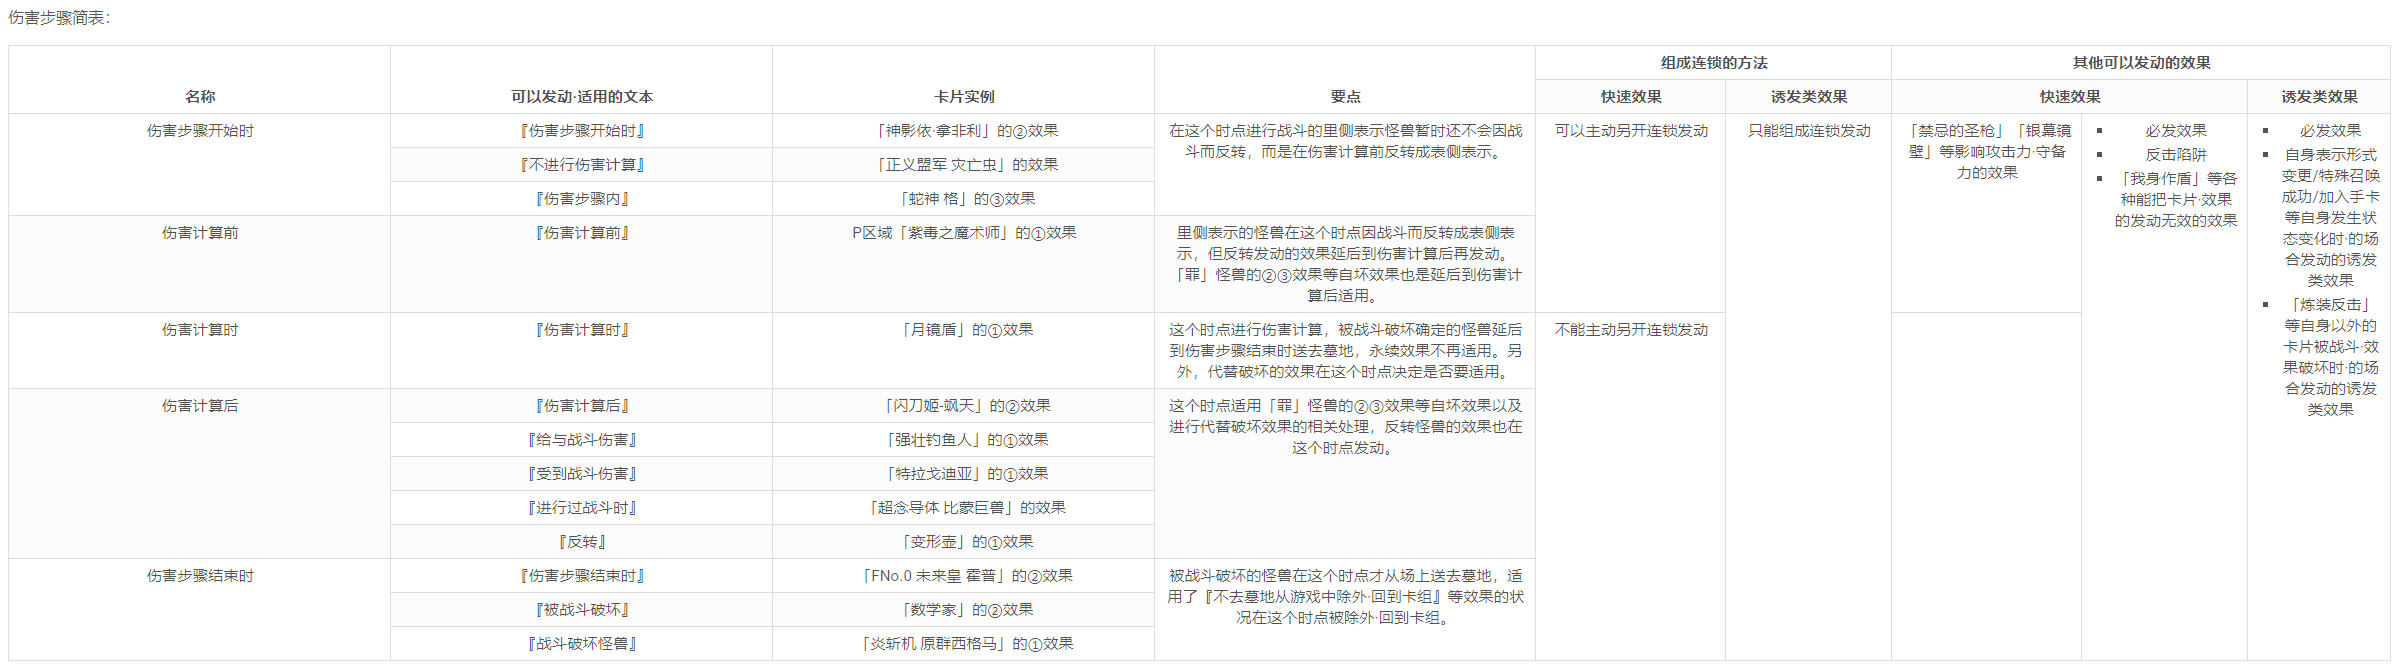
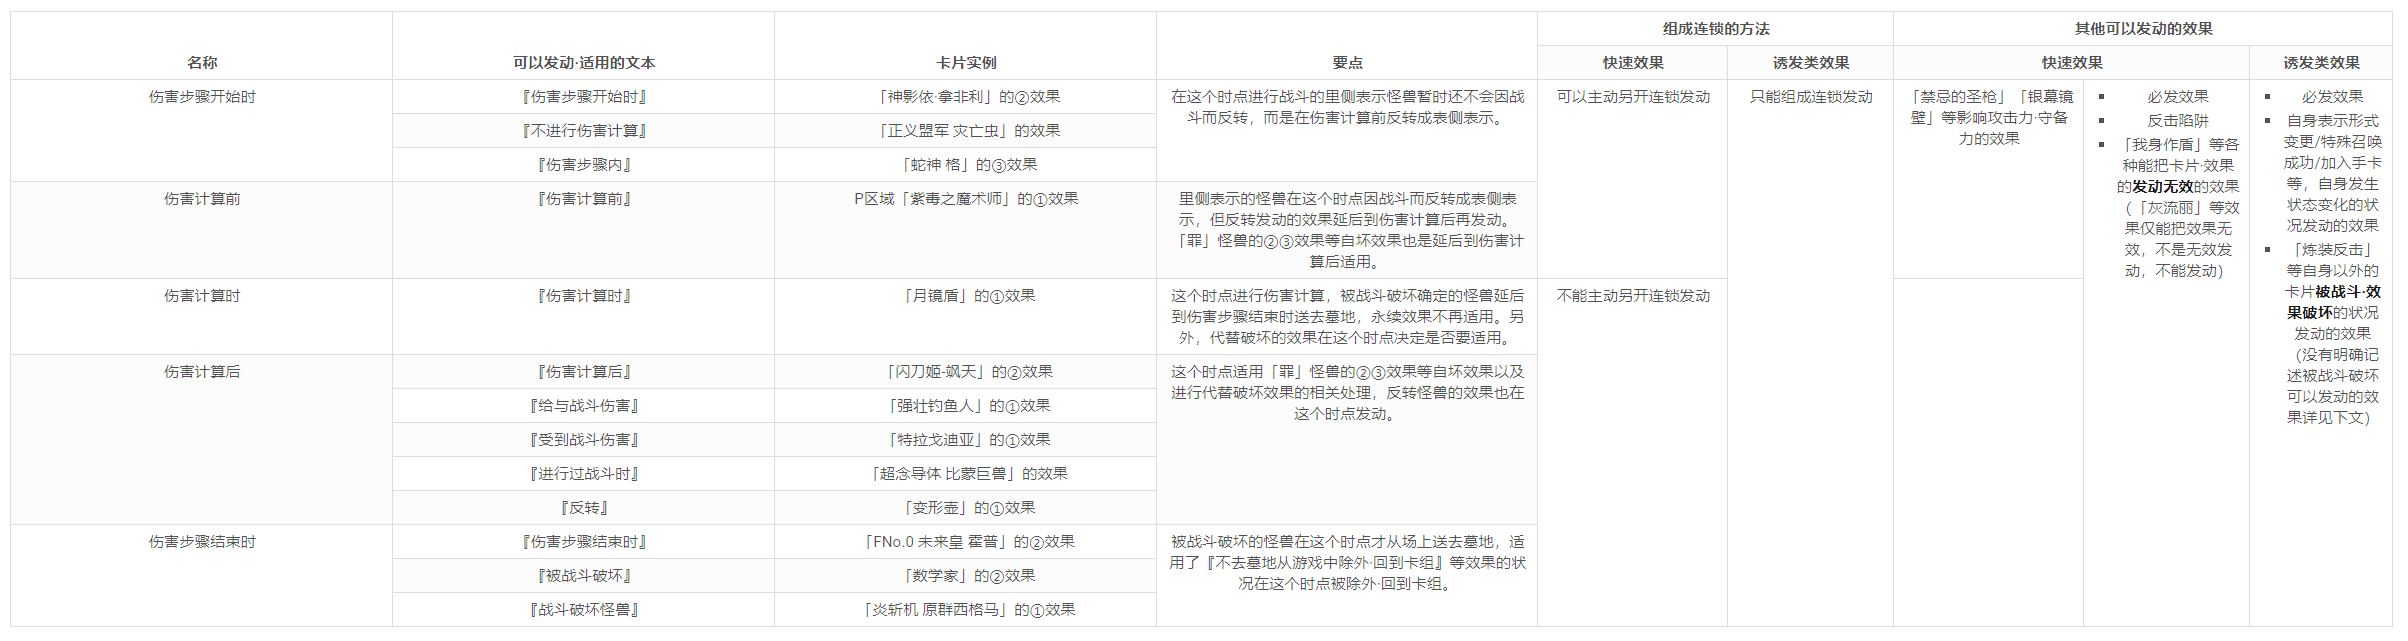
排版修正

diff --git a/docs/c03/战斗阶段流程.rst b/docs/c03/战斗阶段流程.rst
@@ -2,6 +2,9 @@
 战斗阶段流程
 ============
 
+.. role:: strike
+   :class: strike
+
 前言
 ========
 
@@ -264,7 +267,7 @@
 
 .. sidebar:: 其他翻译
 
-   目前效果文本使用的翻译是伤害步骤。不推荐“伤害判定步骤”“伤判”等词。
+   目前效果文本使用的翻译是伤害步骤。不推荐\ :strike:`伤害判定步骤`\ 、\ :strike:`伤判`\ 等词。
 
 这是进行伤害计算，导出战斗结果的步骤。这个步骤结束后，返回战斗步骤。不能直接进入结束步骤。
 
@@ -276,39 +279,41 @@
 
    .. attention:: 「真青眼究极龙」①效果和「古代的机械热核龙」④效果的中文翻译没有记述『过』，但日文原文都是『攻撃し』。
 
-伤害步骤简表：
+.. tabularcolumns:: |\Y{0.1}|\Y{0.1}|\Y{0.1}|\Y{0.2}|\Y{0.1}|\Y{0.1}|\Y{0.1}|\Y{0.1}|\Y{0.1}|
+.. table:: 伤害步骤简表
+   :class: longtable
 
-+--------------------------+--------------------------+--------------------------+--------------------------+-------------+------------+-------------+------------+------------+
-|       |words1|           |        |words2|          |        |words3|          |        |words4|          |         |chain1|         |                |words5|               |
-+                          +                          +                          +                          +-------------+------------+-------------+------------+------------+
-|                          |                          |                          |                          |   |words6|  |  |words7|  |          |words6|        |  |words7|  |
-+==========================+==========================+==========================+==========================+=============+============+=============+============+============+
-|                          |        |text1|           |        |example1|        |                          |             |            |             |            |            |
-|                          +--------------------------+--------------------------+    |introduction1|       |             |            |  |effect1|  | - |effect2|| - |effect5||
-|       |name1|            |        |text2|           |        |example2|        |                          |  |chain2|   |  |chain4|  |             | - |effect3|| - |effect6||
-|                          +--------------------------+--------------------------+                          |             |            |             | - |effect4|| - |effect7||
-|                          |        |text3|           |        |example3|        |                          |             |            |             |            |            |
-+--------------------------+--------------------------+--------------------------+--------------------------+             |            |             |            |            |
-|       |name2|            |        |text4|           |        |example4|        |    |introduction2|       |             |            |             |            |            |
-+--------------------------+--------------------------+--------------------------+--------------------------+-------------+            +-------------+            |            |
-|       |name3|            |        |text5|           |        |example5|        |    |introduction3|       |             |            |             |            |            |
-+--------------------------+--------------------------+--------------------------+--------------------------+  |chain3|   |            |             |            |            |
-|                          |        |text6|           |        |example6|        |                          |             |            |             |            |            |
-|                          +--------------------------+--------------------------+    |introduction4|       |             |            |             |            |            |
-|                          |        |text7|           |        |example7|        |                          |             |            |             |            |            |
-|                          +--------------------------+--------------------------+                          |             |            |             |            |            |
-|       |name4|            |        |text8|           |        |example8|        |                          |             |            |             |            |            |
-|                          +--------------------------+--------------------------+                          |             |            |             |            |            |
-|                          |        |text9|           |        |example9|        |                          |             |            |             |            |            |
-|                          +--------------------------+--------------------------+                          |             |            |             |            |            |
-|                          |        |text10|          |        |example10|       |                          |             |            |             |            |            |
-+--------------------------+--------------------------+--------------------------+--------------------------+             |            |             |            |            |
-|                          |        |text11|          |        |example11|       |                          |             |            |             |            |            |
-|                          +--------------------------+--------------------------+                          |             |            |             |            |            |
-|       |name5|            |        |text12|          |        |example12|       |    |introduction5|       |             |            |             |            |            |
-|                          +--------------------------+--------------------------+                          |             |            |             |            |            |
-|                          |        |text13|          |        |example13|       |                          |             |            |             |            |            |
-+--------------------------+--------------------------+--------------------------+--------------------------+-------------+------------+-------------+------------+------------+
+   +--------------------------+--------------------------+--------------------------+--------------------------+-------------+------------+-------------+------------+------------+
+   |       |words1|           |        |words2|          |        |words3|          |        |words4|          |         |chain1|         |                |words5|               |
+   +                          +                          +                          +                          +-------------+------------+-------------+------------+------------+
+   |                          |                          |                          |                          |   |words6|  |  |words7|  |          |words6|        |  |words7|  |
+   +==========================+==========================+==========================+==========================+=============+============+=============+============+============+
+   |                          |        |text1|           |        |example1|        |                          |             |            |             |            |            |
+   |                          +--------------------------+--------------------------+    |introduction1|       |             |            |  |effect1|  | - |effect2|| - |effect5||
+   |       |name1|            |        |text2|           |        |example2|        |                          |  |chain2|   |  |chain4|  |             | - |effect3|| - |effect6||
+   |                          +--------------------------+--------------------------+                          |             |            |             | - |effect4|| - |effect7||
+   |                          |        |text3|           |        |example3|        |                          |             |            |             |            |            |
+   +--------------------------+--------------------------+--------------------------+--------------------------+             |            |             |            |            |
+   |       |name2|            |        |text4|           |        |example4|        |    |introduction2|       |             |            |             |            |            |
+   +--------------------------+--------------------------+--------------------------+--------------------------+-------------+            +-------------+            |            |
+   |       |name3|            |        |text5|           |        |example5|        |    |introduction3|       |             |            |             |            |            |
+   +--------------------------+--------------------------+--------------------------+--------------------------+  |chain3|   |            |             |            |            |
+   |                          |        |text6|           |        |example6|        |                          |             |            |             |            |            |
+   |                          +--------------------------+--------------------------+    |introduction4|       |             |            |             |            |            |
+   |                          |        |text7|           |        |example7|        |                          |             |            |             |            |            |
+   |                          +--------------------------+--------------------------+                          |             |            |             |            |            |
+   |       |name4|            |        |text8|           |        |example8|        |                          |             |            |             |            |            |
+   |                          +--------------------------+--------------------------+                          |             |            |             |            |            |
+   |                          |        |text9|           |        |example9|        |                          |             |            |             |            |            |
+   |                          +--------------------------+--------------------------+                          |             |            |             |            |            |
+   |                          |        |text10|          |        |example10|       |                          |             |            |             |            |            |
+   +--------------------------+--------------------------+--------------------------+--------------------------+             |            |             |            |            |
+   |                          |        |text11|          |        |example11|       |                          |             |            |             |            |            |
+   |                          +--------------------------+--------------------------+                          |             |            |             |            |            |
+   |       |name5|            |        |text12|          |        |example12|       |    |introduction5|       |             |            |             |            |            |
+   |                          +--------------------------+--------------------------+                          |             |            |             |            |            |
+   |                          |        |text13|          |        |example13|       |                          |             |            |             |            |            |
+   +--------------------------+--------------------------+--------------------------+--------------------------+-------------+------------+-------------+------------+------------+
 
 .. |words1| replace:: 名称
 .. |words2| replace:: 可以发动·适用的文本
@@ -371,7 +376,7 @@
 .. |effect6| replace:: 自身表示形式变更/特殊召唤成功/加入手卡等，自身发生状态变化的状况发动的效果
 .. |effect7| replace:: 「炼装反击」等自身以外的卡片\ **被战斗·效果破坏**\ 的状况发动的效果（没有明确记述被战斗破坏可以发动的效果详见下文）
 
-以上表格在pdf/epub中显示异常，以下是去掉滚动条的全表截图：
+以上简表在pdf/epub中暂显示异常，可以参考以下去掉滚动条的全表截图：
 
 .. figure:: ../.static/c03/1.png
    :target: ../_static/c03/1.png

diff --git a/docs/c03/诱发类效果.rst b/docs/c03/诱发类效果.rst
@@ -106,7 +106,7 @@
 | 自己手卡持有2张「冥府之使者 格斯」时，受到战斗伤害的场合，可以发动『自己场上没有卡存在的场合，因对方控制的卡受到伤害时，这张卡可以从手卡特殊召唤』效果的只有其中1张。
 | 「机动要犀 铁犀三角龙」的自身特殊召唤效果记述了『这个效果在对方回合也能发动』，不是诱发效果而是诱发即时效果，即使自己手卡存在2张也能组成连锁发动。\ `17/3/24 <https://www.db.yugioh-card.com/yugiohdb/faq_search.action?ope=5&fid=39&keyword=&tag=-1>`__
 
--  | 双方在1组连锁上各能发动1次。
+-  | 双方在1组连锁中各能发动1次。
    | 例：
    | 魔法·陷阱卡的发动无效的场合，双方的「曲芸之魔术师」可以组成连锁发动。由回合玩家优先决定是否发动。\ `17/3/24 <https://www.db.yugioh-card.com/yugiohdb/faq_search.action?ope=5&fid=18690&keyword=&tag=-1>`__
 
@@ -115,7 +115,7 @@
    | 自己场上2张「霞之谷的雷鸟」在一组连锁中全部回到手卡的场合，这组连锁处理完毕时这两张会组成连锁发动。
    | 自己用「强欲而贪欲之壶」抽到2张混在卡组中向上的「寄生虫 帕拉赛德」时，它们的效果会组成连锁发动。
 
--  | 能从手卡·墓地把自身特殊召唤的效果，即使在墓地也有这个限制。同一玩家同时在手卡·墓地存在多个这类效果的场合，1组连锁上仍然只能发动1个。
+-  | 能从手卡·墓地把自身特殊召唤的效果，即使在墓地也有这个限制。同一玩家同时在手卡·墓地存在多个这类效果的场合，1组连锁中仍然只能发动1个。
    | 例：
    | 自己手卡存在1张「宙读之魔术士」、1张「天空圣骑士 阿克珀耳修斯」和2张「森之番人 绿狒狒」，墓地存在2张「天空圣骑士 阿克珀耳修斯」和1张「森之番人 绿狒狒」。自己发动「黑洞」，对方连锁发动「魔力吸收」，自己连锁发动「神之宣告」，结果自己场上的「魂虎」被效果破坏送去墓地时，自己只能从手卡·墓地中选发动1张「宙读之魔术士」或1张「天空圣骑士 阿克珀耳修斯」或1张「森之番人 绿狒狒」的效果。也就是说，结果这7张卡中只能有1张发动效果，不会组成连锁。
 
@@ -546,19 +546,28 @@
 
    .. note:: 要连锁发动\ :ref:`快速效果`\ 的场合必须本身能在伤害步骤内发动，结果只有反击陷阱等『发动无效』效果了。
 
-一组连锁中多次满足发动条件
+1组连锁中多次满足发动条件
 =============================
 
-| 怪兽·魔法·陷阱卡的诱发类效果在一组连锁中多次满足发动条件，也没有发动次数限制的场合，连锁处理完毕时能否发动多次，卡与卡是不一样的。
-| 例：
-| 对方在一组连锁中特殊召唤2次怪兽，处理完毕时自己的「超重武者 兜-10」的效果可以组成连锁发动2次。
-| 「拓扑逻辑轰炸龙」的①效果只能发动1次，那些怪兽全部破坏。「防火龙」也只能发动1次。
-| 一组连锁中「黑色花园」的效果以外的方法让怪兽召唤·特殊召唤多次，则处理完毕时「黑色花园」的效果发动多次组成连锁。
-| 一组连锁中「PSY骨架」怪兽多次特殊召唤，处理完毕时「PSY骨架回路」的①效果只能发动1次。
-| 一组连锁中对方发动了多次卡的效果，处理完毕时「幻煌之都 帕西菲斯」的②效果只能发动1次。
-| 一组连锁中从墓地以外特殊召唤了多次怪兽，处理完毕时「巨神龙的遗迹」的①效果只能发动1次，但那些怪兽全部无效。
-| 发动「RUM-削魂之力」在「嘣床」指定的区域特殊召唤2次效果怪兽后，「嘣床」的效果只能发动1次。
-| 发动「愚蠢的埋葬」从卡组把卡送去墓地后，「愚蠢的埋葬」也从场上送去墓地，这个状况「虚无空间」的②效果在处理后只发动1次。\ `20/11/29 <https://www.db.yugioh-card.com/yugiohdb/faq_search.action?ope=5&fid=12929&keyword=&tag=-1>`__
+魔法·陷阱·怪兽卡的诱发类效果在1组连锁中多次满足条件，且这个效果没有发动次数限制的状况：
+
+-  | 记述为『每次』诱发的效果可以自身组成连锁发动多次。
+   | 例：
+   | 1组连锁中「黑色花园」的①效果以外的方法让怪兽召唤·特殊召唤多次的场合，连锁处理后「黑色花园」的①效果会组成连锁发动多次。
+   | 1组连锁中解放了2次怪兽，连锁处理后「六花圣 泪滴花束雪花莲」的②效果会组成连锁发动2次。\ `20/3/6 <https://www.db.yugioh-card.com/yugiohdb/faq_search.action?ope=5&fid=22979&keyword=&tag=-1>`__
+   | 1组连锁中受到2次战斗伤害以外的伤害，连锁处理后「噩梦之拷问室」的效果会组成连锁发动2次。\ `17/7/28 <https://www.db.yugioh-card.com/yugiohdb/faq_search.action?ope=5&fid=20805&keyword=&tag=-1>`__
+   | 1组连锁中受到2次效果伤害，连锁处理后「暗黑方界邪神 深红之挪婆·三神一体」的④效果会组成连锁发动2次，玩家自己选择分别是对应哪次效果伤害发动。\ `17/7/28 <https://www.db.yugioh-card.com/yugiohdb/faq_search.action?ope=5&fid=20805&keyword=&tag=-1>`__
+
+-  | 记述『...的场合』诱发的效果，目前的处理多为只能发动1次，部分细节上的处理略有不同。
+   | 例：
+   | 发动「RUM-削魂之力」在「嘣床」指定的区域特殊召唤2次效果怪兽后，「嘣床」的效果只能发动1次。
+   | 1组连锁中从墓地特殊召唤了2次怪兽，连锁处理后「零冰之魔妖-雪女」的③效果只能发动1次。\ `19/11/22 <https://www.db.yugioh-card.com/yugiohdb/faq_search.action?ope=5&fid=22889&keyword=&tag=-1>`__
+   | 1组连锁中多次特殊召唤了「PSY骨架」怪兽，连锁处理后「PSY骨架回路」的①效果只能发动1次。\ `17/3/24 <https://www.db.yugioh-card.com/yugiohdb/faq_search.action?ope=4&cid=12075>`__
+   | 1组连锁中对方发动了多个卡的效果，连锁处理后「幻煌之都 帕西菲斯」的②效果只能发动1次。\ `17/3/24 <https://www.db.yugioh-card.com/yugiohdb/faq_search.action?ope=5&fid=12548&keyword=&tag=-1>`__
+   | 1组连锁中从墓地以外特殊召唤了多次怪兽，连锁处理后「巨神龙的遗迹」的①效果只能发动1次，不过，这个连锁上从墓地以外特殊召唤的怪兽全部无效。\ `17/3/24 <https://www.db.yugioh-card.com/yugiohdb/faq_search.action?ope=5&fid=18435&keyword=&tag=-1>`__
+   | 1组连锁中多次在连接怪兽的连接端特殊召唤了怪兽，连锁处理后「拓扑逻辑轰炸龙」的①效果只能发动1次。\ `17/5/25 <https://www.db.yugioh-card.com/yugiohdb/faq_search.action?ope=5&fid=17790&keyword=&tag=-1>`__
+   | 1组连锁中对方场上的怪兽多次被战斗·效果破坏送去墓地，连锁处理后「使破坏剑的高手-破坏剑士」的②效果只能发动1次，从被破坏的那些怪兽中选择1只发动。\ `17/3/24 <https://www.db.yugioh-card.com/yugiohdb/faq_search.action?ope=5&fid=17438&keyword=&tag=-1>`__
+   | 发动「愚蠢的埋葬」从卡组把卡送去墓地后，「愚蠢的埋葬」也从场上送去墓地，这个状况「虚无空间」的②效果在处理后也只发动1次。\ `20/11/29 <https://www.db.yugioh-card.com/yugiohdb/faq_search.action?ope=5&fid=12929&keyword=&tag=-1>`__
 
 .. _同一时点发动多个诱发类效果:
 
